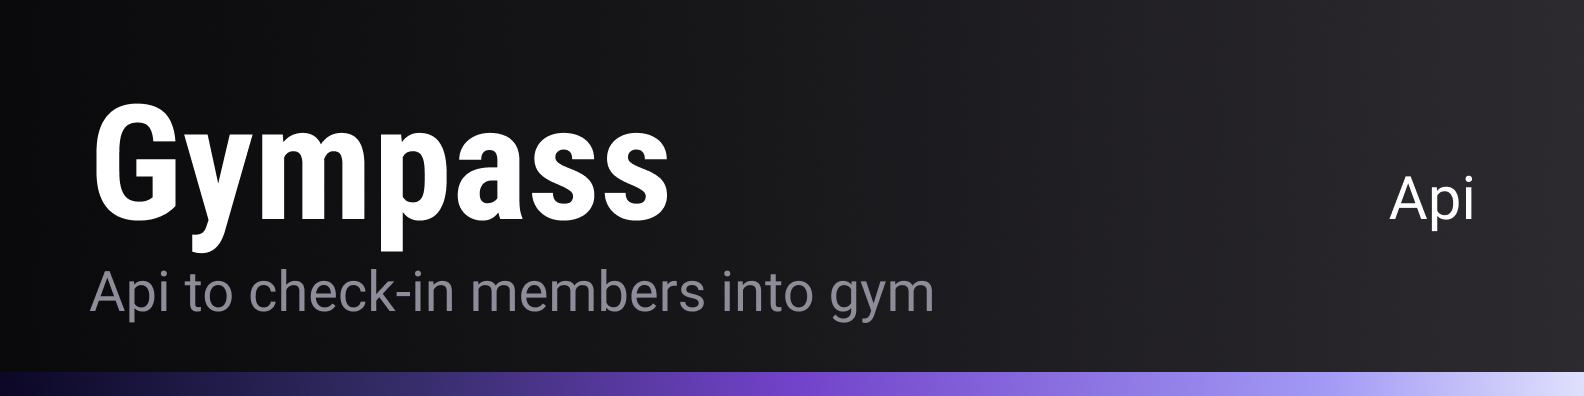
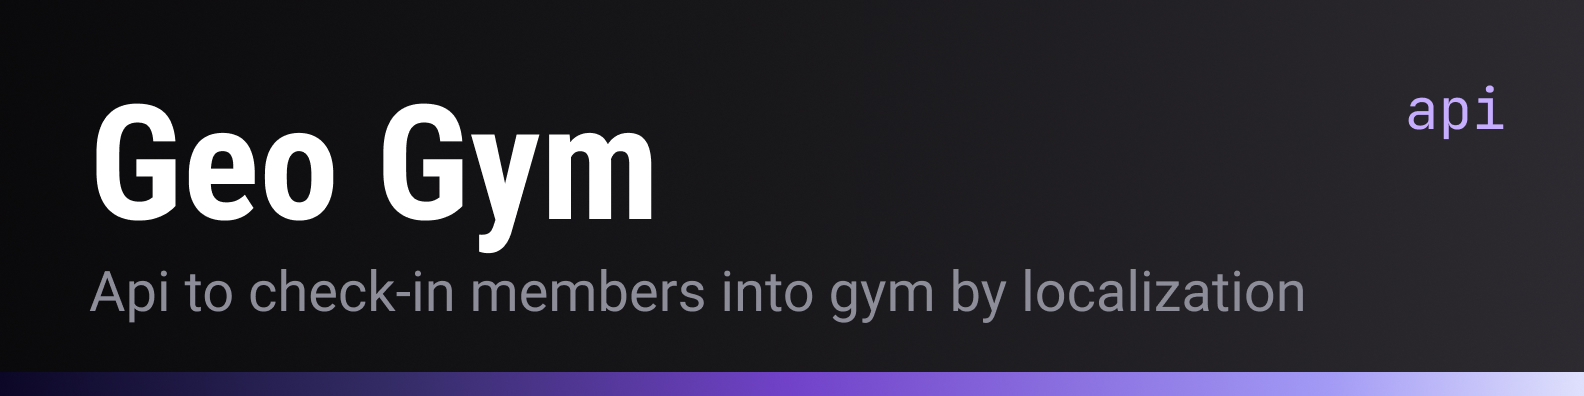
feat: add readme

diff --git a/readme.md b/readme.md
@@ -1,0 +1,23 @@
+![README COVER](https://raw.githubusercontent.com/Casmei/gympass-study/refs/heads/main/img/Cover.jpg?token=GHSAT0AAAAAADACLJ2E6J3WSWAGFQRZKRNW2D32BSA)
+
+# Geo Gym
+This is a simple API for managing gyms and user check-ins based on geolocation.
+
+## What it does
+- Allows users to register and authenticate
+- Admin users can create gyms
+- Users can search for gyms and find nearby locations using latitude and longitude
+- Users can check in at the nearest gym
+- Admins can validate user check-ins
+- Users can view their check-in history and metrics
+
+## Technical highlights
+- Clean architecture with separation of concerns
+- Use cases organized with clear business logic boundaries
+- Dependency inversion with repository pattern
+- In-memory repositories for unit testing
+- Factory pattern easy setup in controller
+- Unit and end-to-end tests using Vitest
+- Fast and isolated test execution
+- Built with TypeScript and Fastify
+
